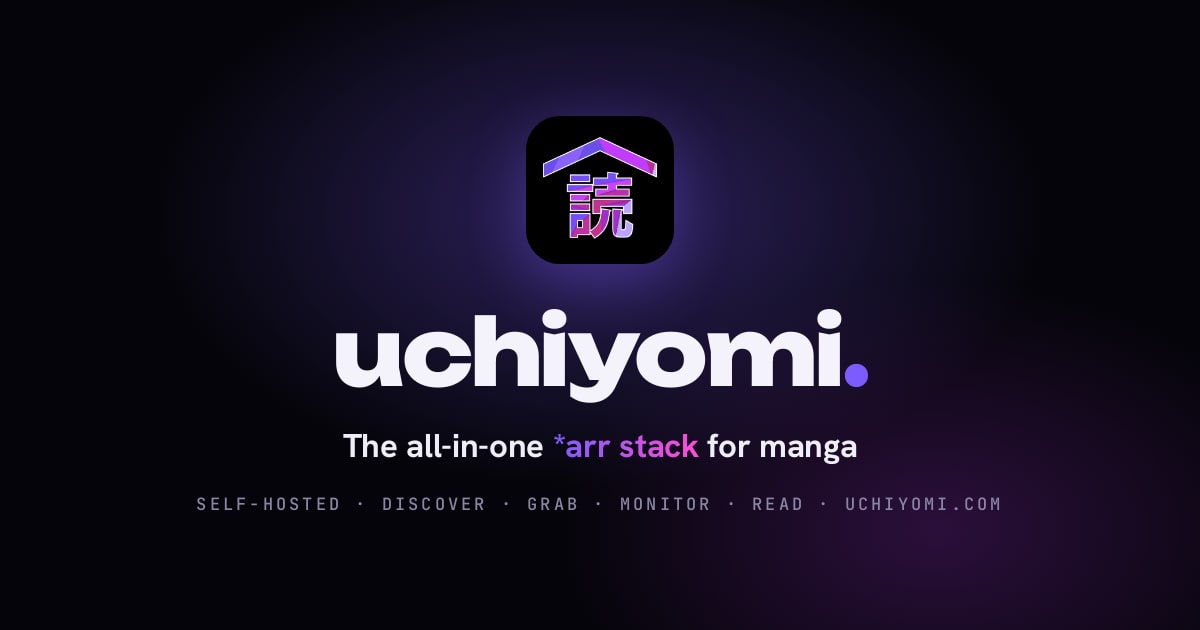
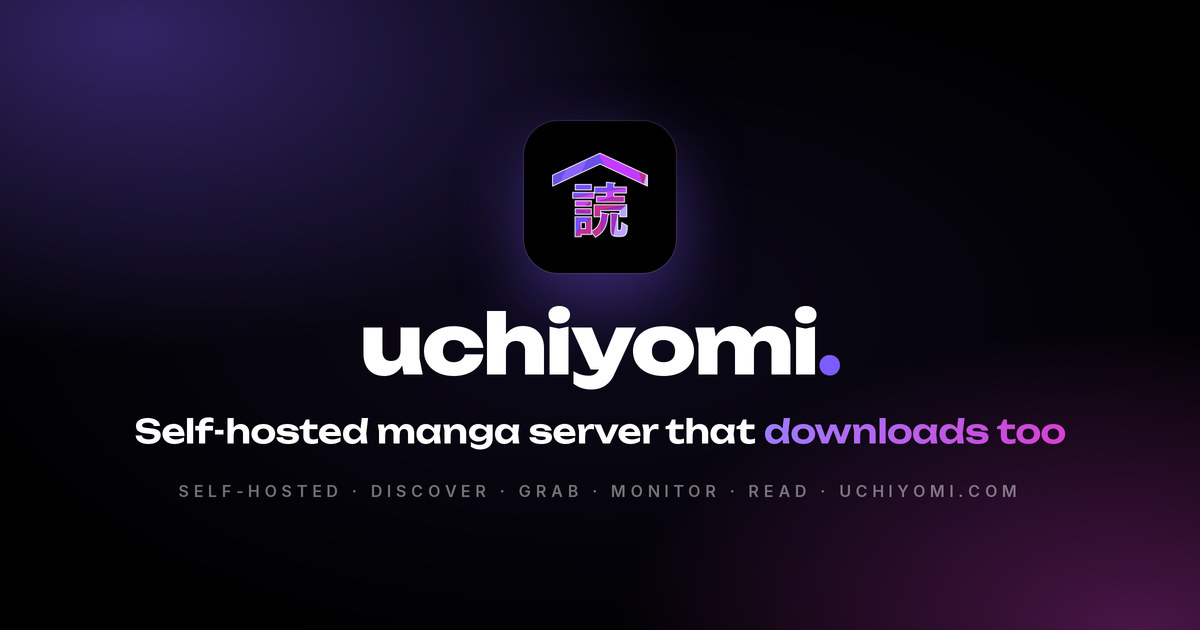
The slogan on every share is the one the project actually uses
"The all-in-one *arr stack for manga" was removed from the README on 2026-08-22, and it has been on screen
every day since, because it is burned into web/public/art/og.jpg. That one file is the GitHub repository's
social preview, uchiyomi.com's link card, the app's own og:image and the CasaOS store thumbnail, so it is
the picture attached to every link anyone shares — and a picture is the one place nobody greps.

The new line is "Self-hosted manga server that downloads too": the two phrases people actually search for,
in one sentence, saying the thing that makes this different from Komga or Kavita. The *arr framing is kept,
not dropped — it is a real and lightly-contested search (Mangarr and Mylar3 exist and describe themselves
exactly that way) — it just moves into body copy and an FAQ answer, where it explains something, instead of
being the headline.

scripts/og-card/ so the next change is an edit to a string in an HTML file rather than an archaeology
expedition: the card is rendered from card.html by headless chrome and encoded with the app image's sharp,
both in containers, no host toolchain. Two things it had to learn: the chrome image's own user is uid 1000
and silently fails to write the screenshot into a checkout owned by anyone else, and a failed render must
not pass, so the script checks the file exists rather than trusting an exit code.

scripts/site/faq-schema.py generates the FAQPage structured data on uchiyomi.com/faq from that page's own
[…]

diff --git a/scripts/og-card/card.html b/scripts/og-card/card.html
@@ -1,0 +1,85 @@
+<!doctype html>
+<!--
+  The 1200x630 social card, as HTML so the slogan is a string in a file rather than pixels nobody can edit.
+
+  Every share of this project shows this image: the GitHub repo social preview, the uchiyomi.com link
+  unfurl, the app's own og:image and the CasaOS store thumbnail are all the same file. It carried the
+  slogan "The all-in-one *arr stack for manga" for a month after that line had been removed from the
+  README, because a picture is the one place nobody greps.
+
+  Render it with scripts/og-card/run.sh. SLOGAN and ACCENT are substituted there.
+-->
+<html lang="en">
+<head>
+<meta charset="utf-8" />
+<style>
+  @font-face {
+    font-family: 'Unbounded';
+    src: url('../../web/app/fonts/Unbounded-latin.woff2') format('woff2');
+    font-weight: 100 900; font-display: block;
+  }
+  @font-face {
+    font-family: 'Inter';
+    src: url('../../web/app/fonts/Inter-latin.woff2') format('woff2');
+    font-weight: 100 900; font-display: block;
+  }
+  * { margin: 0; padding: 0; box-sizing: border-box; }
+  html, body { width: 1200px; height: 630px; }
+  body {
+    background: #000;
+    font-family: 'Inter', system-ui, sans-serif;
+    display: grid; place-items: center;
+    position: relative; overflow: hidden;
+    -webkit-font-smoothing: antialiased;
+  }
+  /* the same violet-to-magenta wash the site opens with, pushed to the corners so the type stays legible */
+  .aurora {
+    position: absolute; inset: -20%;
+    background:
+      radial-gradient(52% 58% at 22% 18%, rgba(124, 92, 255, .40), transparent 62%),
+      radial-gradient(48% 54% at 82% 86%, rgba(214, 64, 209, .34), transparent 64%),
+      radial-gradient(60% 60% at 50% 50%, rgba(124, 92, 255, .10), transparent 70%);
+    filter: blur(2px);
+  }
+  .inner { position: relative; text-align: center; padding-bottom: 8px; }
+
+  .tile {
+    width: 152px; height: 152px; margin: 0 auto 30px;
+    border-radius: 34px; background: #000;
+    display: grid; place-items: center;
+    box-shadow: 0 0 0 1px rgba(255,255,255,.10), 0 26px 70px rgba(124, 92, 255, .42);
+  }
+  .tile img { width: 124px; height: 124px; display: block; }
+
+  .wordmark {
+    font-family: 'Unbounded'; font-weight: 800; font-size: 82px; line-height: 1;
+    letter-spacing: -.028em; color: #fff;
+  }
+  .wordmark .dot { color: #7c5cff; }
+
+  .slogan {
+    font-family: 'Unbounded'; font-weight: 600; font-size: 33px; line-height: 1.24;
+    letter-spacing: -.012em; color: #fff; margin-top: 26px;
+  }
+  .slogan .grad {
+    background: linear-gradient(92deg, #9d7bff 0%, #d640d1 100%);
+    -webkit-background-clip: text; background-clip: text; color: transparent;
+  }
+
+  .meta {
+    margin-top: 30px; font-size: 16px; font-weight: 600;
+    letter-spacing: .30em; text-transform: uppercase;
+    color: rgba(255,255,255,.44);
+  }
+</style>
+</head>
+<body>
+  <div class="aurora"></div>
+  <div class="inner">
+    <div class="tile"><img src="../../web/public/icons/icon-512.png" alt="" /></div>
+    <div class="wordmark">uchiyomi<span class="dot">.</span></div>
+    <div class="slogan">__SLOGAN__</div>
+    <div class="meta">__META__</div>
+  </div>
+</body>
+</html>

diff --git a/web/app/layout.tsx b/web/app/layout.tsx
@@ -32,14 +32,14 @@ const brand = localFont({
 });
 
 export const metadata: Metadata = {
-  title: 'Uchiyomi — your library, your way',
-  description: 'A cinematic, personal reader for your manga & manhwa.',
+  title: 'Uchiyomi — your self-hosted manga server',
+  description: 'Read, download and keep up with your manga, manhwa and webtoons, on your own server.',
   manifest: '/manifest.webmanifest',
   appleWebApp: { capable: true, statusBarStyle: 'black-translucent', title: 'Uchiyomi' },
   icons: { icon: '/icons/favicon.png', apple: '/icons/apple-touch-icon.png' },
   openGraph: {
     title: 'Uchiyomi',
-    description: 'A cinematic, personal reader for your manga & manhwa.',
+    description: 'Read, download and keep up with your manga, manhwa and webtoons, on your own server.',
     images: ['/art/og.jpg'],
     type: 'website',
   },

diff --git a/scripts/site/faq-schema.py b/scripts/site/faq-schema.py
@@ -1,0 +1,110 @@
+#!/usr/bin/env python3
+"""Generate and verify the FAQPage structured data on uchiyomi.com/faq from the page's own markup.
+
+Google's FAQPage rules are simple and easy to break later: every question and its FULL answer must be
+visible on the page, verbatim. Hand-maintaining a JSON-LD block beside the HTML guarantees that one day
+somebody trims a paragraph and the structured data starts quoting text that is no longer there.
+
+So the HTML is the source and this derives the block from it:
+
+    python3 scripts/site/faq-schema.py /opt/compose/koryomi/site/faq.html            # verify (exit 1 on drift)
+    python3 scripts/site/faq-schema.py /opt/compose/koryomi/site/faq.html --write    # regenerate in place
+
+Paragraphs marked `data-live` are skipped: they are filled by nginx SSI at request time, so their text is
+not fixed and must not be quoted as an answer.
+
+The site is not in git, so this lives here, where it is versioned, rather than beside the page it checks.
+"""
+import json
+import re
+import sys
+from html.parser import HTMLParser
+
+MARK = ('<script type="application/ld+json" id="faq-schema">', '</script>')
+
+
+class Faq(HTMLParser):
+    """Collect (question, answer) from every `div.faq-q`: its h3, then its non-live paragraphs."""
+
+    def __init__(self):
+        super().__init__(convert_charrefs=True)
+        self.pairs, self.depth, self.mode, self.buf, self.q, self.answers = [], 0, None, [], None, []
+
+    def handle_starttag(self, tag, attrs):
+        a = dict(attrs)
+        if tag == 'div' and 'faq-q' in (a.get('class') or ''):
+            self.depth, self.q, self.answers = 1, None, []
+        elif self.depth:
+            if tag == 'div':
+                self.depth += 1
+            elif tag == 'h3':
+                self.mode, self.buf = 'q', []
+            elif tag == 'p' and 'data-live' not in a:
+                self.mode, self.buf = 'a', []
+
+    def handle_endtag(self, tag):
+        if not self.depth:
+            return
+        if tag in ('h3', 'p') and self.mode:
+            text = re.sub(r'\s+', ' ', ''.join(self.buf)).strip()
+            if self.mode == 'q':
+                self.q = text
+            elif text:
+                self.answers.append(text)
+            self.mode, self.buf = None, []
+        elif tag == 'div':
+            self.depth -= 1
+            if self.depth == 0 and self.q and self.answers:
+                self.pairs.append((self.q, ' '.join(self.answers)))
+
+    def handle_data(self, data):
+        if self.mode:
+            self.buf.append(data)
+
+
+def build(html: str) -> str:
+    p = Faq()
+    p.feed(html)
+    if len(p.pairs) < 10:
+        sys.exit(f'only {len(p.pairs)} question(s) found — the markup shape changed')
+    doc = {
+        '@context': 'https://schema.org',
+        '@type': 'FAQPage',
+        '@id': 'https://uchiyomi.com/faq#faq',
+        'inLanguage': 'en-GB',
+        'mainEntity': [
+            {'@type': 'Question', 'name': q,
+             'acceptedAnswer': {'@type': 'Answer', 'text': a}}
+            for q, a in p.pairs
+        ],
+    }
+    return json.dumps(doc, ensure_ascii=False, indent=1)
+
+
+def main() -> int:
+    path = sys.argv[1]
+    write = '--write' in sys.argv[2:]
+    html = open(path, encoding='utf-8').read()
+    want = build(html)
+
+    start = html.find(MARK[0])
+    if start < 0:
+        sys.exit(f'{path}: no <script ... id="faq-schema"> block to fill')
+    end = html.index(MARK[1], start)
+    have = html[start + len(MARK[0]):end].strip()
+
+    if write:
+        open(path, 'w', encoding='utf-8').write(html[:start + len(MARK[0])] + '\n' + want + '\n' + html[end:])
+        print(f'{path}: wrote {len(json.loads(want)["mainEntity"])} questions')
+        return 0
+
+    if have != want:
+        print(f'{path}: the FAQ structured data no longer matches the page.', file=sys.stderr)
+        print('Re-run with --write, then look at the diff before publishing.', file=sys.stderr)
+        return 1
+    print(f'{path}: {len(json.loads(want)["mainEntity"])} questions, structured data matches the page')
+    return 0
+
+
+if __name__ == '__main__':
+    raise SystemExit(main())
